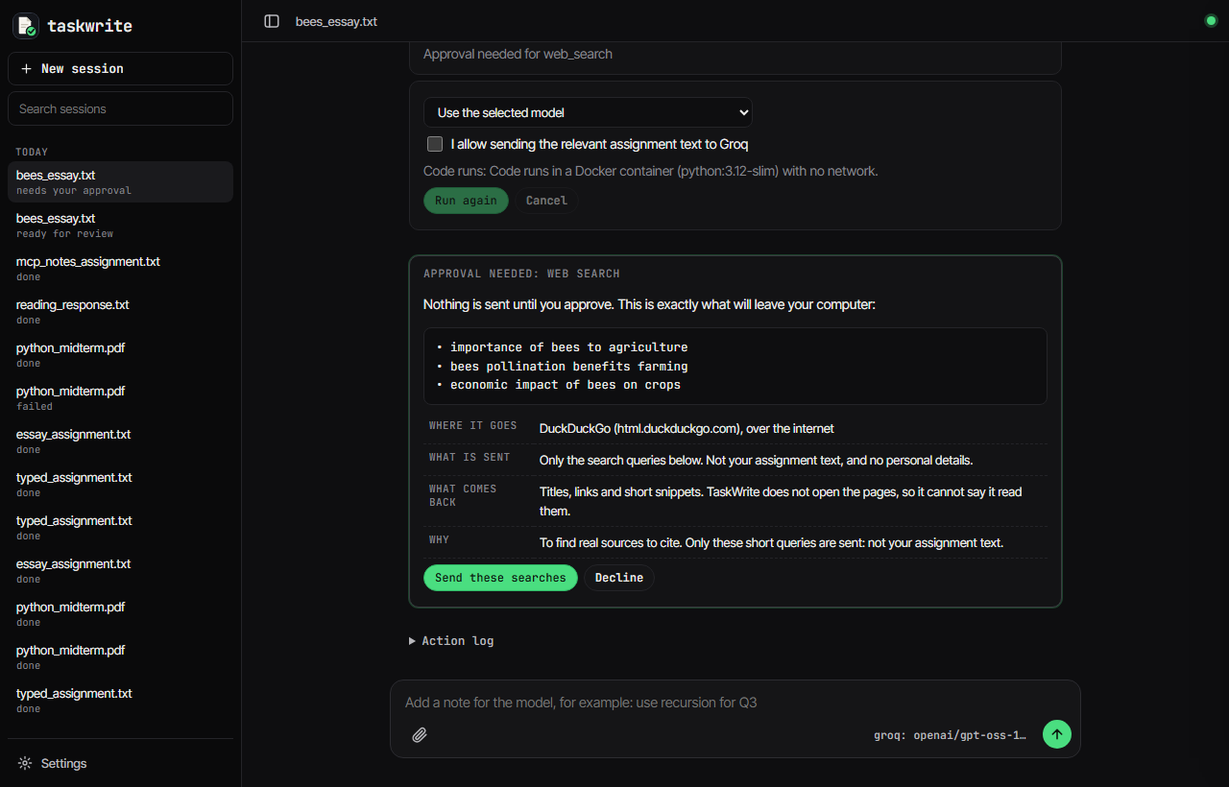
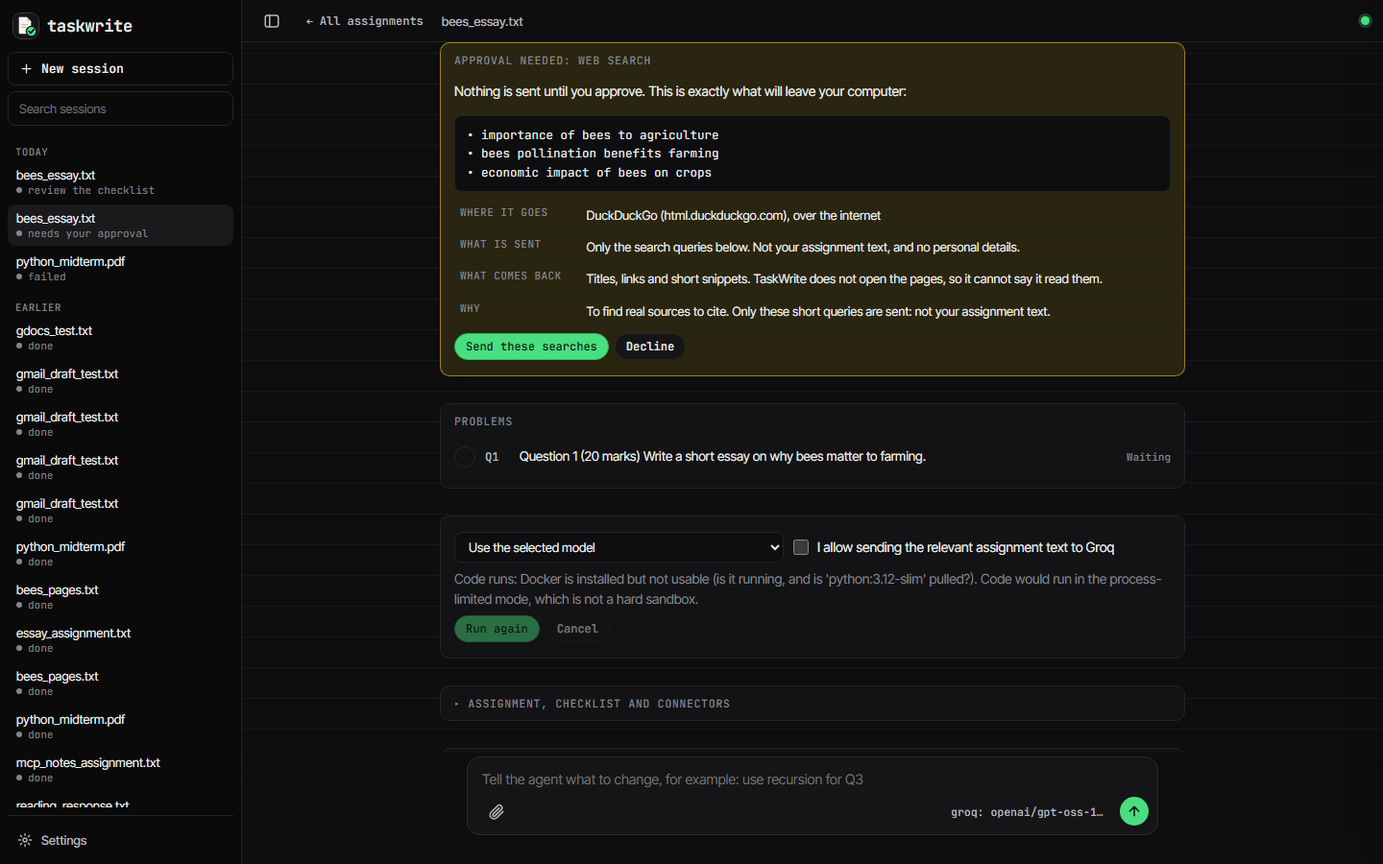
Refresh the website, README, screenshots and CLAUDE.md; add CI
Website: real GitHub link, updated tech list and FAQ (connectors,
sandbox, changing an answer), "an email to draft". README: describes
the dashboard, assignment page, model picker, connectors, chat box and
"Change this"; six new screenshots. CLAUDE.md matches the current app
and test count. Adds a GitHub Actions workflow that runs pytest, and
small page fixes (green finished bar, one font for problem rows).

diff --git a/site/index.html b/site/index.html
@@ -25,7 +25,7 @@
     </nav>
     <span class="spacer"></span>
     <a class="btn outline sm" href="how-it-works.html">See how it works</a>
-    <a class="btn sm github-link" href="https://github.com/YOUR-USERNAME/TaskWrite" aria-label="TaskWrite on GitHub">
+    <a class="btn sm github-link" href="https://github.com/rider-codes/TaskWrite" aria-label="TaskWrite on GitHub">
       <svg viewBox="0 0 16 16" fill="currentColor" aria-hidden="true"><path d="M8 0C3.58 0 0 3.58 0 8c0 3.54 2.29 6.53 5.47 7.59.4.07.55-.17.55-.38 0-.19-.01-.82-.01-1.49-2.01.37-2.53-.49-2.69-.94-.09-.23-.48-.94-.82-1.13-.28-.15-.68-.52-.01-.53.63-.01 1.08.58 1.23.82.72 1.21 1.87.87 2.33.66.07-.52.28-.87.51-1.07-1.78-.2-3.64-.89-3.64-3.95 0-.87.31-1.59.82-2.15-.08-.2-.36-1.02.08-2.12 0 0 .67-.21 2.2.82a7.6 7.6 0 0 1 4 0c1.53-1.04 2.2-.82 2.2-.82.44 1.1.16 1.92.08 2.12.51.56.82 1.27.82 2.15 0 3.07-1.87 3.75-3.65 3.95.29.25.54.73.54 1.48 0 1.07-.01 1.93-.01 2.2 0 .21.15.46.55.38A8.01 8.01 0 0 0 16 8c0-4.42-3.58-8-8-8z"/></svg>
       GitHub
     </a>
@@ -73,10 +73,10 @@
       <span class="q" id="ask" aria-live="polite">Have a coding assessment to complete?</span>
       <span class="a">Let TaskWrite <span class="dots">complete it.</span>
     </h1>
-    <ul class="sr-only"><li>Have a coding assessment to complete?</li><li>Have an essay to write?</li><li>Have an email to send?</li></ul>
+    <ul class="sr-only"><li>Have a coding assessment to complete?</li><li>Have an essay to write?</li><li>Have an email to draft?</li></ul>
     <p class="lede">Upload it, approve the plan, and TaskWrite does the work in your own apps.</p>
     <div class="cta">
-      <a class="btn github-link" href="https://github.com/YOUR-USERNAME/TaskWrite">
+      <a class="btn github-link" href="https://github.com/rider-codes/TaskWrite">
         <svg viewBox="0 0 16 16" fill="currentColor" aria-hidden="true"><path d="M8 0C3.58 0 0 3.58 0 8c0 3.54 2.29 6.53 5.47 7.59.4.07.55-.17.55-.38 0-.19-.01-.82-.01-1.49-2.01.37-2.53-.49-2.69-.94-.09-.23-.48-.94-.82-1.13-.28-.15-.68-.52-.01-.53.63-.01 1.08.58 1.23.82.72 1.21 1.87.87 2.33.66.07-.52.28-.87.51-1.07-1.78-.2-3.64-.89-3.64-3.95 0-.87.31-1.59.82-2.15-.08-.2-.36-1.02.08-2.12 0 0 .67-.21 2.2.82a7.6 7.6 0 0 1 4 0c1.53-1.04 2.2-.82 2.2-.82.44 1.1.16 1.92.08 2.12.51.56.82 1.27.82 2.15 0 3.07-1.87 3.75-3.65 3.95.29.25.54.73.54 1.48 0 1.07-.01 1.93-.01 2.2 0 .21.15.46.55.38A8.01 8.01 0 0 0 16 8c0-4.42-3.58-8-8-8z"/></svg>
         Download from GitHub <span aria-hidden="true">→</span></a>
     </div>
@@ -85,20 +85,22 @@
 </section>
 
 <div class="strip">
-  <div class="marquee" aria-hidden="true"><div class="grp"><span>Ollama</span><span>FastAPI</span><span>LangGraph</span><span>SQLite</span><span>PyMuPDF</span><span>python-docx</span><span>Pydantic</span><span>VS Code</span><span>Word</span><span>Ollama</span><span>FastAPI</span><span>LangGraph</span><span>SQLite</span><span>PyMuPDF</span><span>python-docx</span><span>Pydantic</span><span>VS Code</span><span>Word</span><span>Ollama</span><span>FastAPI</span><span>LangGraph</span><span>SQLite</span><span>PyMuPDF</span><span>python-docx</span><span>Pydantic</span><span>VS Code</span><span>Word</span></div><div class="grp"><span>Ollama</span><span>FastAPI</span><span>LangGraph</span><span>SQLite</span><span>PyMuPDF</span><span>python-docx</span><span>Pydantic</span><span>VS Code</span><span>Word</span><span>Ollama</span><span>FastAPI</span><span>LangGraph</span><span>SQLite</span><span>PyMuPDF</span><span>python-docx</span><span>Pydantic</span><span>VS Code</span><span>Word</span><span>Ollama</span><span>FastAPI</span><span>LangGraph</span><span>SQLite</span><span>PyMuPDF</span><span>python-docx</span><span>Pydantic</span><span>VS Code</span><span>Word</span></div></div>
-  <ul class="sr-only"><li>Ollama</li><li>FastAPI</li><li>LangGraph</li><li>SQLite</li><li>PyMuPDF</li><li>python-docx</li><li>Pydantic</li><li>VS Code</li><li>Word</li></ul>
+  <div class="marquee" aria-hidden="true"><div class="grp"><span>Ollama</span><span>FastAPI</span><span>LangGraph</span><span>SQLite</span><span>PyMuPDF</span><span>python-docx</span><span>Pydantic</span><span>VS Code</span><span>Word</span><span>Groq</span><span>Gemini</span><span>Docker</span><span>MCP</span><span>Gmail drafts</span><span>Google Docs</span><span>Ollama</span><span>FastAPI</span><span>LangGraph</span><span>SQLite</span><span>PyMuPDF</span><span>python-docx</span><span>Pydantic</span><span>VS Code</span><span>Word</span><span>Groq</span><span>Gemini</span><span>Docker</span><span>MCP</span><span>Gmail drafts</span><span>Google Docs</span><span>Ollama</span><span>FastAPI</span><span>LangGraph</span><span>SQLite</span><span>PyMuPDF</span><span>python-docx</span><span>Pydantic</span><span>VS Code</span><span>Word</span><span>Groq</span><span>Gemini</span><span>Docker</span><span>MCP</span><span>Gmail drafts</span><span>Google Docs</span></div><div class="grp"><span>Ollama</span><span>FastAPI</span><span>LangGraph</span><span>SQLite</span><span>PyMuPDF</span><span>python-docx</span><span>Pydantic</span><span>VS Code</span><span>Word</span><span>Groq</span><span>Gemini</span><span>Docker</span><span>MCP</span><span>Gmail drafts</span><span>Google Docs</span><span>Ollama</span><span>FastAPI</span><span>LangGraph</span><span>SQLite</span><span>PyMuPDF</span><span>python-docx</span><span>Pydantic</span><span>VS Code</span><span>Word</span><span>Groq</span><span>Gemini</span><span>Docker</span><span>MCP</span><span>Gmail drafts</span><span>Google Docs</span><span>Ollama</span><span>FastAPI</span><span>LangGraph</span><span>SQLite</span><span>PyMuPDF</span><span>python-docx</span><span>Pydantic</span><span>VS Code</span><span>Word</span><span>Groq</span><span>Gemini</span><span>Docker</span><span>MCP</span><span>Gmail drafts</span><span>Google Docs</span></div></div>
+  <ul class="sr-only"><li>Ollama</li><li>FastAPI</li><li>LangGraph</li><li>SQLite</li><li>PyMuPDF</li><li>python-docx</li><li>Pydantic</li><li>VS Code</li><li>Word</li><li>Groq</li><li>Gemini</li><li>Docker</li><li>MCP</li><li>Gmail drafts</li><li>Google Docs</li></ul>
 </div>
 
 <section class="block alt-band" id="faq">
   <div class="wrap">
     <h2 class="title">Questions people ask</h2>
     <div class="faq-grid">
-      <details class="faq" open><summary>Does it submit my work for me?</summary><p>No. It produces a deliverable for you to review. It never submits to a school platform, and email only opens a draft in your mail app that you read and send yourself.</p></details>
-      <details class="faq"><summary>Is my assignment sent to the cloud?</summary><p>Not by default. It runs a model on your own computer through Ollama, so the text stays on your machine. Cloud models are optional, need your own API key, and ask for your consent before any text leaves your computer.</p></details>
+      <details class="faq" open><summary>Does it submit my work for me?</summary><p>No. It produces a deliverable for you to review. It never submits to a school platform. Email is only ever a draft, in your mail app or your Gmail Drafts folder, that you read and send yourself.</p></details>
+      <details class="faq"><summary>Is my assignment sent to the cloud?</summary><p>Not by default. It runs a model on your own computer through Ollama, so the text stays on your machine. Cloud models (Groq, Gemini, OpenAI, Anthropic) are optional, need your own API key, and ask for your consent before any text leaves your computer.</p></details>
       <details class="faq"><summary>Do I have to pay for anything?</summary><p>No. Neither TaskWrite nor Ollama costs anything. The only possible cost is a cloud model, and only if you choose to add your own API key later.</p></details>
-      <details class="faq"><summary>What do I need to run it?</summary><p>Python 3.12, Ollama with a model installed, and a modern browser. VS Code and Word are optional and only used if you approve them. Speed and answer quality depend on your computer and the model you pick.</p></details>
+      <details class="faq"><summary>What do I need to run it?</summary><p>Python 3.12, Ollama with a model installed, and a modern browser. VS Code, Word, Gmail and Google Docs are optional and only used if you connect and approve them. Speed and answer quality depend on your computer and the model you pick.</p></details>
       <details class="faq"><summary>How good are the answers?</summary><p>That depends on the model. Small local models run on your own computer but make mistakes. TaskWrite checks that every requirement was addressed and labels what it could not verify, so read everything before you use it.</p></details>
-      <details class="faq"><summary>What can it do on my computer?</summary><p>Only what you approve for that assignment: the model, a calculator, a Python runner, VS Code, Word and an email draft. The Python runner uses a separate process with a timeout, but it is not a hardened sandbox, so approve it only for code you are happy to run.</p></details>
+      <details class="faq"><summary>What can it do on my computer?</summary><p>Only what you approve for that assignment: the model, a calculator, a Python runner, and the connectors you switch on. Generated code runs in a Docker sandbox with no network when Docker is available; otherwise in a limited process, which is not a hardened sandbox, and the app tells you which one ran.</p></details>
+      <details class="faq"><summary>Which apps can it connect to?</summary><p>VS Code (saves your code files in a folder you choose), web search (only search words leave your computer), Gmail (saves a draft, never sends) and Google Docs (creates one new document, never shares it). Each is off until you allow it, and anything that leaves your computer shows you exactly what will go first.</p></details>
+      <details class="faq"><summary>Can I change an answer afterwards?</summary><p>Yes. Each finished problem has a Change this button: say what you want different and only that problem is redone. You can also type instructions while it is working; the next step picks them up.</p></details>
       <details class="faq"><summary>What if it gets stuck or runs out of steps?</summary><p>If it needs something only you know, such as your topic or data, it pauses and asks. Every model call and retry counts against a fixed step budget (8 by default). At the cap it stops, saves its progress and shows what is left, and you choose whether to continue.</p></details>
       <details class="faq"><summary>Which files can I upload?</summary><p>PDF, DOCX and TXT. Scanned or image-only files need OCR, which isn't supported yet. Text in an uploaded file is treated as data: lines that look like instructions aimed at an AI are flagged and kept away from the model.</p></details>
       <details class="faq"><summary>Is it okay to use for my coursework?</summary><p>That depends on your school's rules, and you are responsible for following them. TaskWrite is a drafting and learning aid. Check what your course allows, and understand and review everything before you hand it in.</p></details>
@@ -107,7 +109,7 @@
 </section>
 </main>
 
-<footer><div class="wrap"><span class="logo" style="font-size:14px">taskwrite</span><span class="spacer"></span><a class="github-link" href="https://github.com/YOUR-USERNAME/TaskWrite">GitHub</a></div></footer>
+<footer><div class="wrap"><span class="logo" style="font-size:14px">taskwrite</span><span class="spacer"></span><a class="github-link" href="https://github.com/rider-codes/TaskWrite">GitHub</a></div></footer>
 
 <script src="site.js?v=63"></script>
 </body>

diff --git a/static/index.html b/static/index.html
@@ -253,7 +253,8 @@
   .ptx { flex:1; min-width:0; overflow:hidden; text-overflow:ellipsis; white-space:nowrap; }
   .pst { flex:none; font:500 11px var(--mono); color:var(--muted); } .prow.done .pst { color:var(--mark); } .prow.fail .pst { color:var(--fail); } .prow.need .pst, .prow.run .pst { color:var(--need); }
   .prow.run .pst { color:var(--mark); }
-  details.pdet > summary { list-style:none; cursor:pointer; } details.pdet > summary::-webkit-details-marker { display:none; }
+  details.pdet > summary { list-style:none; cursor:pointer; font:inherit; color:inherit; margin:0; }
+  .bigprog.k-done .pbar i { background:var(--mark); } details.pdet > summary::-webkit-details-marker { display:none; }
   details.pdet[open] > summary .prow { border-bottom-color:transparent; }
   @media (max-width:760px) { .card table { display:block; max-width:100%; overflow-x:auto; } .prow { flex-wrap:wrap; padding:6px 0; } .ptx { flex-basis:60%; white-space:normal; display:-webkit-box; -webkit-line-clamp:2; -webkit-box-orient:vertical; overflow:hidden; }
     #backHome { white-space:nowrap; } #title { display:none; } body.side-closed .topbar .logo { font-size:0; gap:0; margin-right:2px; } }
@@ -1055,12 +1056,13 @@ function poll() {
 }
 
 renderThread(null);
-/* deep link: /app#sid=<id>&focus=code|sources|approval|plan|settings  (used for screenshots and bookmarks) */
+/* deep link: /app#sid=<id>&focus=code|sources|approval|plan|connectors|settings  (used for screenshots and bookmarks) */
 (async function deepLink() {
   const m = location.hash.match(/sid=([a-f0-9]+)/), focus = (location.hash.match(/focus=(\w+)/) || [])[1];
   if (m) { try { await openSession(m[1]); } catch (e) { return; } }
   if (focus === 'settings') { $('settings').classList.add('open'); return; }
-  const pick = {code: () => [...document.querySelectorAll('details.card')].find(d => /\.py/.test(d.querySelector('summary')?.textContent || '')),
+  const pick = {code: () => { const d = document.querySelector('details.pdet'); if (d) d.open = true; return d; },
+    connectors: () => document.getElementById('connectorsCard'),
     sources: () => [...document.querySelectorAll('details.card')].find(d => /^Sources found/.test(d.querySelector('summary')?.textContent || '')),
     approval: () => document.querySelector('.card.hot'), plan: () => [...document.querySelectorAll('.card')].find(d => /^Plan/i.test(d.querySelector('h3')?.textContent || ''))}[focus];
   setTimeout(() => { const t = pick && pick(); if (t) { $('scroller').style.scrollBehavior = 'auto'; t.scrollIntoView({block:'start'}); } }, 700);

diff --git a/site/how-it-works.html b/site/how-it-works.html
@@ -25,7 +25,7 @@
     </nav>
     <span class="spacer"></span>
     <a class="btn outline sm current" href="how-it-works.html">See how it works</a>
-    <a class="btn sm github-link" href="https://github.com/YOUR-USERNAME/TaskWrite" aria-label="TaskWrite on GitHub">
+    <a class="btn sm github-link" href="https://github.com/rider-codes/TaskWrite" aria-label="TaskWrite on GitHub">
       <svg viewBox="0 0 16 16" fill="currentColor" aria-hidden="true"><path d="M8 0C3.58 0 0 3.58 0 8c0 3.54 2.29 6.53 5.47 7.59.4.07.55-.17.55-.38 0-.19-.01-.82-.01-1.49-2.01.37-2.53-.49-2.69-.94-.09-.23-.48-.94-.82-1.13-.28-.15-.68-.52-.01-.53.63-.01 1.08.58 1.23.82.72 1.21 1.87.87 2.33.66.07-.52.28-.87.51-1.07-1.78-.2-3.64-.89-3.64-3.95 0-.87.31-1.59.82-2.15-.08-.2-.36-1.02.08-2.12 0 0 .67-.21 2.2.82a7.6 7.6 0 0 1 4 0c1.53-1.04 2.2-.82 2.2-.82.44 1.1.16 1.92.08 2.12.51.56.82 1.27.82 2.15 0 3.07-1.87 3.75-3.65 3.95.29.25.54.73.54 1.48 0 1.07-.01 1.93-.01 2.2 0 .21.15.46.55.38A8.01 8.01 0 0 0 16 8c0-4.42-3.58-8-8-8z"/></svg>
       GitHub
     </a>
@@ -58,7 +58,7 @@
 </section>
 </main>
 
-<footer><div class="wrap"><span class="logo" style="font-size:14px">taskwrite</span><span class="spacer"></span><a href="index.html">Home</a><a class="github-link" href="https://github.com/YOUR-USERNAME/TaskWrite">GitHub</a></div></footer>
+<footer><div class="wrap"><span class="logo" style="font-size:14px">taskwrite</span><span class="spacer"></span><a href="index.html">Home</a><a class="github-link" href="https://github.com/rider-codes/TaskWrite">GitHub</a></div></footer>
 <script src="site.js?v=63"></script>
 </body>
 </html>

diff --git a/site/site.js b/site/site.js
@@ -160,7 +160,7 @@
       plan: '<span class="tag">PLAN · STEP 2 OF 3</span><h4>Draft the essay for Word</h4><p>Needs <b>model</b> and <b>word</b>. It asks you which side to argue.</p>' + meter(3),
       code: '<div class="bar"><s></s><s></s><s></s>&nbsp;essay.docx</div><pre class="plain">Remote learning widened access\nfor students far from campus,\nbut it works best when it is\n<span class="c">...drafted, then opened in Word</span></pre>',
       mail: '<span class="tag">WORD COUNT</span><div class="row"><span class="label">Words</span><span>468 / 500</span></div><div class="row"><span class="label">Rule</span><span>max 500: met</span></div><span class="go">Open in Word</span>' },
-    { q: 'Have an email to send?',
+    { q: 'Have an email to draft?',
       assign: '<div class="face"><span class="tag">EMAIL TASK</span><h4>Extension request</h4>' + chk(1, 'To ms.rao@school.edu') + chk(1, 'Ask for two more days') + chk(0, 'Tone: you decide') + '</div>',
       plan: '<span class="tag">PLAN · STEP 1 OF 2</span><h4>Write the email</h4><p>Needs <b>model</b> and <b>email</b>. It only prepares a draft.</p>' + meter(1),
       code: '<div class="bar"><s></s><s></s><s></s>&nbsp;email body</div><pre class="plain">Hello Ms. Rao,\n\nCould I have two more days\nfor the lab report? <span class="c">...</span></pre>',

diff --git a/CLAUDE.md b/CLAUDE.md
@@ -22,7 +22,7 @@ python -m venv .venv && .venv\Scripts\activate     # macOS/Linux: source .venv/b
 pip install -r requirements-dev.txt
 copy .env.example .env                              # add keys only if you want a cloud model
 uvicorn app.main:app --reload                       # website: /   app: /app
-pytest                                              # ~45 s, needs no network, key or Docker
+pytest                                              # ~4 min, needs no network, key or Docker
 python -m app.sandbox_check                         # shows which code isolation you really have
 ```
 
@@ -40,8 +40,9 @@ Upload/paste -> extract -> find questions + rules -> editable checklist
 - **Essays:** optional research step. The model proposes up to 3 topic-only search queries; the user sees them and approves before anything is sent. Optional second step opens up to 3 result pages (addresses approved first). The essay may cite only the numbered sources found (`[S1]`); invented citations fail validation and trigger a bounded rewrite. Output ends with a Sources section and a "How I approached this" note.
 - **Written/maths questions:** answered by the model or the local calculator.
 - **Tools:** `model`, `calculator`, `code_runner`, `vscode`, `word`, `email` (draft only), `web_search`, `read_pages`, plus any MCP tool the user configured.
-- **Ask when stuck:** the model may reply `NEED_INPUT: <question>` (max 5 per session); typed text in the chat answers it, otherwise typed text is added as a hint ("note") for the model.
+- **Ask when stuck:** the model may reply `NEED_INPUT: <question>` (max 5 per session), optionally with `OPTIONS: a | b` (two to four short choices, cleaned in code, shown as tap-to-answer buttons). Typed text in the chat box answers it; otherwise typed text is a note (context only, max 10). A note typed during a run waits in its own table (`pending_notes`) and the next step picks it up, so the running step's state is never overwritten.
 - **Change this:** a finished problem can be redone with an instruction (`POST /sessions/{id}/redo`). Only that problem's step is reset; the approved plan and its hash are unchanged, the instruction is a labelled note ("For Q2: ..."), and the redo goes through the normal run loop, budget and approval cards.
+- **Start-up:** the real app connects the MCP servers listed in the config on a background thread (`autoconnect`; tests opt in), so connectors are ready without pressing Connect. `start.bat` launches it on Windows.
 - **Budget:** `MAX_AGENT_STEPS` (default 8) caps model calls, searches, page opens, code runs and fix attempts. At the cap the run pauses and shows what remains; the user adds steps to continue.
 
 ## 4. The rules (each has tests; do not weaken them)
@@ -57,7 +58,7 @@ Upload/paste -> extract -> find questions + rules -> editable checklist
 9. **Web safety (SSRF guard in `app/web.py`):** only addresses the search returned can be opened; http/https on 80/443; no logins in URLs; every resolved address must be public; every redirect re-checked; non-web content refused; size/time capped; only the first ~3,000 characters kept.
 10. **Never fabricate** citations, sources, results or tool output. If something cannot be done, say why and what remains.
 
-11. **Publishing through MCP is built by code, never by the model.** Files for the code answers are created through the VS Code MCP extension (loopback HTTP only, `app/publish.py`): one approval card lists every file with its own tick (files start ticked), each call is hashed when approved and refused if anything changed, every path is checked in code (the extension itself does not stop `../`), nothing is ever overwritten, a temporary marker file proves the server's open folder is the user's workspace folder before anything is created, and every file is read back from disk before it is called "created". Tools that can send, share, delete or run shell commands (`forbidden_reason` in `app/safety.py`) are hidden, cannot be approved, and are refused by `ToolGate` and `McpManager.call` even if the database says "approved". The old VS Code/Word/email launchers remain as fallbacks when no MCP server is configured. A Gmail draft (`workspace-mcp`, `draft_gmail_message` only) goes on the same card, starts unticked, carries the finished answer as its body with no recipient, is refused if the content changed after approval, and is reported as "the server says it saved a draft" because no tool can read a draft back. Only that one Gmail tool is offered; the server is started with the other mail tools disabled, and anything named send, share or delete is blocked in code. A Google Doc (`create_doc` only, `gdocs` server) follows the same rules: unticked, plain text, no folder, never shared, reported as "the server says it created a Google Doc" with its link. MCP `env` values may use `${NAME}` so Google's client ID and secret stay in `.env`, not the config file.
+11. **Publishing through MCP is built by code, never by the model.** Files for the code answers are created through the VS Code MCP extension (loopback HTTP only, `app/publish.py`): one approval card lists every file with its own tick (files start ticked), each call is hashed when approved and refused if anything changed, every path is checked in code (the extension itself does not stop `../`), nothing is ever overwritten, a temporary marker file proves the server's open folder is the user's workspace folder before anything is created, and every file is read back from disk before it is called "created". Tools that can send, share, delete or run shell commands (`forbidden_reason` in `app/safety.py`) are hidden, cannot be approved, and are refused by `ToolGate` and `McpManager.call` even if the database says "approved". The old VS Code/Word/email launchers remain as fallbacks when no MCP server is configured. A Gmail draft (`workspace-mcp`, `draft_gmail_message` only) goes on the same card, starts unticked, carries the finished answer as its body with no recipient, is refused if the content changed after approval, and is reported as "the server says it saved a draft" because no tool can read a draft back. Only that one Gmail tool is offered; the server is started with the other mail tools disabled, and anything named send, share or delete is blocked in code. A Google Doc (`create_doc` only, `gdocs` server) follows the same rules: unticked, plain text, no folder, never shared, reported as "the server says it created a Google Doc" with its link. These code-built calls may be up to 60,000 characters (`PUBLISH_MAX_CHARS`); arguments a model proposes keep the 8,000 cap. MCP `env` values may use `${NAME}` so Google's client ID and secret stay in `.env`, not the config file.
 
 12. **The local server only serves this computer.** Every request's Host must be 127.0.0.1, localhost or [::1] (plus `ALLOWED_HOSTS`), which stops DNS rebinding; any request that changes something must come from the app's own page (same host and port in `Origin`, no `null`/`file://`, no `Sec-Fetch-Site: cross-site`). Scripts without an Origin still work. No CORS headers are sent. Tests in `tests/test_host_origin.py`.
 
@@ -93,9 +94,9 @@ app/
   tools.py         tool catalog, calculator, launchers (VS Code/Word/mailto)
   mcp_client.py    MCP servers (local program or loopback HTTP)      publish.py   files created through MCP
   db.py models.py extract.py exporters.py
-static/index.html  chat UI (one file, no build step; deep link /app#sid=<id>&focus=...)
+static/index.html  dashboard + assignment page (one file, no build step; deep link /app#sid=<id>&focus=...)
 site/              marketing site (home + "how it works")
-tests/             ~220 tests incl. 30 eval cases (eval_cases.py)
+tests/             423 tests incl. 30 eval cases (eval_cases.py)
 samples/           synthetic assignments (never real student work)
 docs/screenshots/  README images
 ```
@@ -111,14 +112,15 @@ docs/screenshots/  README images
 
 ## 8. Status and honest limits
 
-**Done and tested (218 tests, 30 eval cases):** five providers, chat UI with history/delete/progress/stop, Python workflow in a Docker sandbox, essay research with page reading, citation checks and rewrite, Word/VS Code/email-draft/MCP hand-offs, prompt-injection and SSRF guards, resumable runs.
+**Done and tested (423 tests, 30 eval cases):** five providers, a dashboard and assignment page (progress bar, problem rows, model picker locked during a run, connectors list, chat box, "Change this"), Python workflow in a Docker sandbox, essay research with page reading, citation checks and rewrite, Word/VS Code/email-draft/MCP hand-offs, prompt-injection and SSRF guards, resumable runs.
 
-**Verified with real services:** Groq (code, essays, search, page reading, email draft, MCP), Docker sandbox, live DuckDuckGo search.
+**Verified with real services:** Groq (code, essays, search, page reading, email draft, MCP, redo, notes during a run), Docker sandbox, live DuckDuckGo search, the VS Code MCP extension, and Gmail drafts and Google Docs through `workspace-mcp` with a real Google account.
 
 **Not verified or weak:**
 - Gemini, OpenAI, Anthropic adapters are tested against mocked responses only (the Gemini test account had no credits).
 - The Browse folder dialog, real VS Code and real Word launches were only tested with fakes.
 - "Tests passed" can be wrong or too easy; question detection is rules-based and unusual layouts may be mis-split (the checklist is editable); some sites block page reading (HTTP 403); the process-limited sandbox is not a hard sandbox; Groq's free tier rate-limits quickly on large exams.
+- The page itself has no automated tests (it is checked by hand in a browser); Gmail and Docs share one Google sign-in whose scopes are broader than the single tool TaskWrite calls.
 - Not built: reading PDFs/files linked from results, charts or data files, a light theme.
 
 **Definition of done:** clone, run with Ollama, upload an assignment, approve tools and plan, get a completed deliverable with a requirement report, and export it; switch to a cloud provider without changing code; and the app says clearly when it cannot be trusted to complete a task.

diff --git a/README.md b/README.md
@@ -2,7 +2,7 @@
 
 Open-source, local-first AI assignment agent. Upload a PDF/DOCX/TXT assignment; TaskWrite extracts it, builds an editable requirements checklist, asks you to approve tools and a plan, completes the work with your chosen model, validates every requirement, and lets you export the result (.md, .docx, .txt).
 
-Status: Milestones 1-2 (MVP + LangGraph orchestration with resumable runs), plus Gemini and Groq providers and a Python-assessment workflow (generate, run in a restricted environment, fix, explain). Essay writing with web research and Word output is built too; OpenAI and Anthropic adapters are not.
+It works as a harness: plug in a model (local Ollama, or Groq, Gemini, OpenAI or Anthropic with your own key) and switch on the connectors you want (VS Code, web search, Gmail drafts, Google Docs). The model does the work through them, and every outside action asks you first. Groq, Gmail drafts and Google Docs were run end to end with real accounts; the Gemini, OpenAI and Anthropic adapters are tested against mocked responses only.
 
 ## Run it
 
@@ -54,9 +54,16 @@ Upload (or type/paste) a written assignment such as "write an essay on X and cit
 
 Each search and each page opened counts against the step budget. If you decline the search, the essay is written with no sources and told not to invent any. Try it with `samples/essay_assignment.txt`.
 
-## Your chats
+## The dashboard and an assignment page
 
-Every chat is saved on your computer and listed in the sidebar (hover a chat and press the cross, then press it again to delete it for good; this removes the chat and its log from the database but not files already saved in your workspace folder). While a run is working, the progress card shows the step in progress, how many steps are done, the action budget used and the elapsed time. **Cancel** stops after the current step: a model call cannot be interrupted, so the card says "Stopping…" until it ends.
+Run `start.bat` on Windows (or the `uvicorn` command above) and open http://127.0.0.1:8000/app.
+
+- **Dashboard** - every assignment as a card with its status (needs you, running, failed, done) and a progress bar. The chips at the top filter the cards; **New session** attaches or pastes a new assignment. Delete one from the sidebar (press the cross twice); that removes it from the database but not files already saved in your workspace folder.
+- **Assignment page** - one progress bar ("3 of 5 done"), a row per problem (done, working, waiting, failed), and anything that needs you at the top: approvals, or a question from the agent with tap-to-answer choices when it offers them.
+- **Model picker** - shows the provider and model, and lets you switch. It is locked while a run is going, in the backend as well as on the page.
+- **Connectors** - VS Code, Web search, Gmail and Google Docs, each off until you allow it for that assignment. Connectors listed in `mcp_servers.json` are connected automatically when the app starts.
+- **Chat box** - type an instruction at any time. During a run it is queued and the next step picks it up. If the agent asked a question, what you type is your answer.
+- **Change this** - on any finished problem: say what should be different and only that problem is redone, inside the same step budget and approvals.
 
 ## Working in your own apps
 
@@ -67,7 +74,7 @@ Approve the tools the assignment needs and TaskWrite hands the work to them, wit
 - **Email** - an approval screen shows the recipient, subject and body. Only after you confirm does it open a draft in your mail app. TaskWrite never sends email and cannot tell you whether it was sent; you press Send.
 - **Questions** - if the model cannot continue without information only you have, the run pauses and asks you.
 
-Free by default (local Ollama). Gemini and Groq work with your own API key.
+Free by default (local Ollama). Groq, Gemini, OpenAI and Anthropic work with your own API key.
 
 ## Create the code files through VS Code (optional, MCP)
 
@@ -113,7 +120,7 @@ Uses the same Google client and `USER_GOOGLE_EMAIL` as the Gmail draft above.
 
 Using both Gmail drafts and Google Docs? Sign in **once for both** (start `workspace-mcp` with `--permissions gmail:drafts docs:full` and run its sign-in). Both servers share one saved sign-in per Google address, so signing in for one service alone replaces the other's permission.
 
-Only `create_doc` is offered; the server is started with its reading, editing and listing tools switched off, and anything named share or delete is blocked in code. The "Save as a Google Doc" box starts **unticked**. The essay goes in as plain text (Markdown markers removed), with no folder and no sharing. TaskWrite cannot open the document to check it, so it says "the server says it created a Google Doc" and shows the link. Very long essays (over about 8,000 characters) are not sent; download the .docx instead. Google's token for this is broad (it can read and edit all your docs), so revoke it at https://myaccount.google.com/permissions when you stop using it.
+Only `create_doc` is offered; the server is started with its reading, editing and listing tools switched off, and anything named share or delete is blocked in code. The "Save as a Google Doc" box starts **unticked**. The essay goes in as plain text (Markdown markers removed), with no folder and no sharing. TaskWrite cannot open the document to check it, so it says "the server says it created a Google Doc" and shows the link. Very long essays (over about 60,000 characters) are not sent; download the .docx instead. Google's token for this is broad (it can read and edit all your docs), so revoke it at https://myaccount.google.com/permissions when you stop using it.
 
 ## MCP tools
 
@@ -135,14 +142,15 @@ The model only proposes tool calls. The backend checks approval and the tool's o
 - Results are labelled honestly: "verified" only when a tool computed it; otherwise "addressed, not verified". Citations are never verified.
 - Generated Python only runs after you approve the code runner, in Docker when available, otherwise in a restricted process (see above). The restricted-process fallback is **not** a hardened sandbox.
 - API keys live in memory or your `.env`; they are redacted from logs and errors and never returned by the API.
+- The server only answers requests addressed to this computer (127.0.0.1, localhost), and only accepts changes from its own page, so another website cannot read your sessions or press buttons for you.
 
 ## Screenshots
 
 | | |
 | --- | --- |
-| ![A new chat](docs/screenshots/01-new-chat.png) | ![Checklist and tool approvals](docs/screenshots/02-review-checklist-and-tools.png) |
-| ![Web search approval](docs/screenshots/03-web-search-approval.png) | ![Code results](docs/screenshots/04-code-results.png) |
-| ![Essay sources](docs/screenshots/05-essay-sources.png) | ![Settings](docs/screenshots/06-settings-providers.png) |
+| ![Dashboard](docs/screenshots/01-dashboard.png) | ![Checklist and connectors](docs/screenshots/02-checklist-connectors.png) |
+| ![Web search approval](docs/screenshots/03-web-search-approval.png) | ![Problems and progress](docs/screenshots/04-problems-and-code.png) |
+| ![Essay sources](docs/screenshots/05-essay-sources.png) | ![Phone width](docs/screenshots/06-phone.png) |
 
 These are from real runs of the synthetic samples in `samples/`.
 
